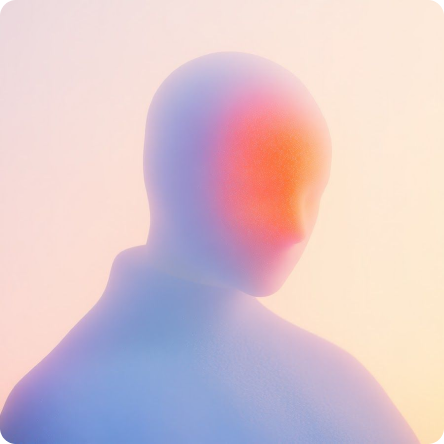
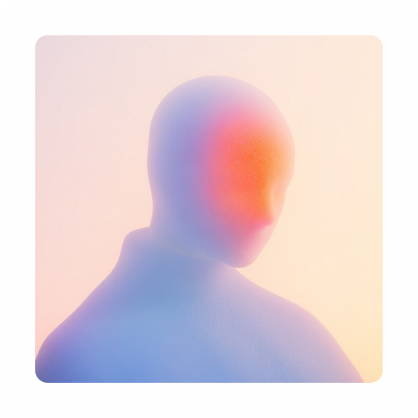
Give the interview row's three stills one shared height
The replacement pic1 and pic2 PNGs both shipped padded — pic1 as a
560x669 canvas holding 418x418 of artwork at (71, 0), pic2 as a 599x441
holding 502x271 at (48, 0). `object-fit: contain` sizes and centres the
CANVAS, so each rendered at a fraction of its neighbours' size and sat
above the centre of its plate. Crop both to their opaque bounds.

Replace the per-panel `--overlay-scale` overrides with a single height on
`.overlay`. The scales existed to compensate for stills that no longer
match the canvases they were measured against, and kept drifting out of
sync with every re-export; one shared height makes equal height across
the row structural instead. The aspect ratios still differ, so the widths
do too — a square beside two cards of the same height reads as a set.

Also refresh both files' comments: they described the old 3.20:1 pic2 and
claimed pic1 needed no crop, and pic2's alt text still described the
prompt panel it used to be rather than the video call it now is.

diff --git a/web/src/components/sections/interview/InterviewSection.module.css b/web/src/components/sections/interview/InterviewSection.module.css
@@ -80,58 +80,45 @@
   opacity: 0.4;
 }
 
-/* Height is the dimension that's pinned, and width is left at the full panel
-   so it never becomes the binding constraint — with `contain` inside a box
-   this shape, each still resolves to exactly the box height and sits centred
-   on its plate. 45cqw is the base measure; the 280px cap stops the row
-   growing unreasonably on very wide viewports.
+/* Height is the dimension that's pinned, and it is THE SAME FOR ALL THREE
+   PANELS — that shared height is the whole point of this rule, so it lives
+   here and nowhere else. Width is left at the full panel so it never becomes
+   the binding constraint: with `contain` inside a box this shape, each still
+   resolves to exactly the box height and sits centred on its plate, and the
+   three read as one row of artwork at one size rather than three separately
+   tuned ones.
 
-   The three stills are cropped tight to their artwork (pic1 square at 1:1,
-   pic2-trim a wide banner at 3.20:1, pic3-trim landscape at 1.96:1) — no
-   transparent margin left in the files, which is what lets `contain` centre
-   them for free. VERIFY THAT AFTER ANY RE-EXPORT: pic2-trim once shipped as
-   a 1873x1118 canvas holding 1605x501 of artwork, so it filled 45% of its
-   own height, and `contain` dutifully sized the empty canvas to the box
-   while the visible banner came out at well under half the size of its
-   neighbours. Nothing about that is visible in the stylesheet — the scale
-   below looked correct and the panel was simply small. The source PNGs shipped ~237px of empty canvas below the
-   artwork; while that was still in there, `contain` dutifully centred the
-   CANVAS, which pushed the visible artwork of panels 2 and 3 well above the
-   centre of their plates. If either still is ever re-exported, crop it to
-   its opaque bounds or that reappears.
+   The stills' aspect ratios differ (pic1 square at 1:1, pic2-trim landscape
+   at 1.85:1, pic3-trim landscape at 1.96:1), so at a common height their
+   widths differ too — that is expected and fine; a square and two cards of
+   the same height look like a set, whereas matching their widths instead
+   would make the square tower over the cards. What DOES have to hold is
+   that height stays the binding dimension for all three, or `contain` would
+   start sizing one of them off its width and break the shared height. The
+   widest, pic3-trim, lands at 38cqw x 1.962 = ~75cqw — comfortably inside
+   the panel, with room to spare before the hairline. Re-check that figure if
+   a still is ever re-exported at a much wider aspect ratio.
 
-   Because they're now tight crops, their aspect ratios differ far more than
-   a shared box height can absorb: at one common height pic2-trim would run
-   over three times as wide as it is tall and blow past the panel edges. So
-   each panel scales the base measure instead (`--overlay-scale`, applied
-   per panel below). Width stays non-binding at every scale: the widest,
-   panel two, lands at ~72cqw below the 280px cap and less above it. */
+   38cqw is the measure; the 238px cap stops the row growing unreasonably on
+   very wide viewports.
+
+   The three stills must be cropped tight to their artwork — no transparent
+   margin left in the files — which is what lets `contain` centre them for
+   free. CROP EVERY RE-EXPORT TO ITS OPAQUE BOUNDS. This is the one recurring
+   failure in this row and it has now landed three times: pic2-trim as a
+   1873x1118 canvas holding 1605x501; pic2-trim again as a 599x441 holding
+   502x271 at (48, 0); pic1 as a 560x669 holding 418x418 at (71, 0). Each
+   time `contain` sized the empty CANVAS to the box, so the visible artwork
+   came out a fraction of its neighbours' size and — where the spare canvas
+   sat below the artwork — above the centre of its plate. None of it is
+   visible from the stylesheet: the height below stays correct and the panel
+   is simply small and high. Treat a faint shadow tail (sub-alpha-8 on pic2's
+   canvas) as margin, not artwork. */
 .overlay {
   position: relative;
   z-index: var(--gl-z-content);
   width: 100%;
-  height: calc(min(45cqw, 280px) * var(--overlay-scale, 1));
-}
-
-/* Panel two's banner and panel three's card are keyed to the row by index,
-   the same way `interviewStages` pairs each gradient with its still. Panel
-   three's is the artwork's own share of the old padded canvas, so it reads
-   at exactly the size it did before the crop, with a deliberate 1.2x on top
-   (0.64 x 1.2) so the recommendation card sits a little larger than the rest
-   of the row.
-
-   PANEL TWO'S IS SET DIRECTLY, not derived that way, because its still no
-   longer matches the canvas the old figure was measured against — see
-   `.overlay` above. Now that the file is cropped, the scale is just the
-   banner's height as a share of the base measure: half, which at 3.20:1
-   lands it a touch wider than panel three's card and appreciably shorter,
-   which is the right relationship for a banner beside a card. */
-.grid > .panel:nth-child(2) .overlay {
-  --overlay-scale: 0.5;
-}
-
-.grid > .panel:nth-child(3) .overlay {
-  --overlay-scale: 0.768;
+  height: min(38cqw, 238px);
 }
 
 .overlayImage {

diff --git a/web/src/content/interview.ts b/web/src/content/interview.ts
@@ -4,10 +4,13 @@
  * and one line of reassurance copy underneath. The gradients and stills are
  * paired index-for-index: panel one gets grad1 + pic1, and so on.
  *
- * The `-trim` stills are the source PNGs with their transparent margins
- * cropped off (the originals ship a lot of empty canvas below the artwork,
- * which made the three read as different heights and sat them off-centre on
- * their plates). pic1 needed no crop, so it's referenced as-is.
+ * All three stills are cropped to their opaque bounds — the delivered PNGs
+ * ship a lot of empty canvas around the artwork, which made the three read
+ * as different heights and sat them off-centre on their plates. The `-trim`
+ * suffix records that on the two that were first delivered padded; pic1 was
+ * delivered clean originally and was cropped in place later, so it keeps its
+ * plain name. Crop any re-export the same way — see InterviewSection.module
+ * .css's `.overlay` for what goes wrong when one arrives padded.
  */
 
 export interface InterviewStage {
@@ -32,7 +35,7 @@ export const interviewStages: readonly InterviewStage[] = [
     id: "real-stories",
     background: "/assets/grad2.png",
     overlay: "/assets/pic2-trim.png",
-    overlayAlt: "The Tal AI prompt panel, ready for a question",
+    overlayAlt: "A Talent Agent and a candidate talking on a video call",
     body: "Your Talent Agent will ask about real experiences from your life and give you a chance to talk through what happened and how you handled it.",
   },
   {
